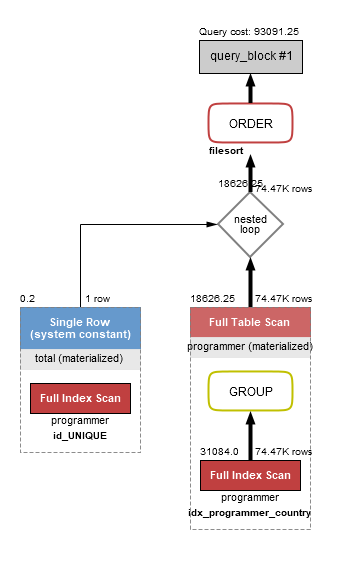
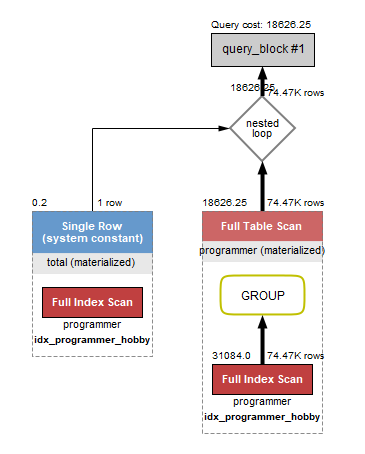
doc(README.md): Coding as a Hobby 추가

Changed region(s): [[0.0571, 0.0308, 0.9143, 0.9559]]

diff --git a/README.md b/README.md
@@ -233,22 +233,21 @@ order by a.annual_income desc, r.region;
 1. 인덱스 적용해보기 실습을 진행해본 과정을 공유해주세요
 
 - [x] [Coding as a Hobby](https://insights.stackoverflow.com/survey/2018#developer-profile-_-coding-as-a-hobby) 와 같은 결과를 반환하세요.
-    - 국가별 프로그래머 비율 확인
+    - Coding as a Hobby
 ```sql
-select programmer.country, 
+select programmer.hobby, 
 	round(concat((programmer.cnt / total.cnt) * 100, "%"),2) as percentage
 from (
     select 
-        country,
+        hobby,
         count(id) as cnt
     from programmer
-    group by country
+    group by hobby
 ) as programmer
 inner join (
     select count(id) as cnt
     from programmer
-) as total on 1 = 1
-order by programmer.country;
+) as total on 1 = 1;
 ```
 
 ![이미지](/query/step4/question0_explain.png)
